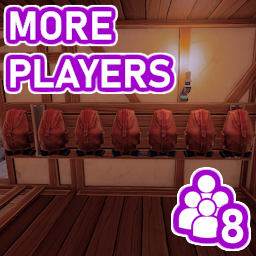
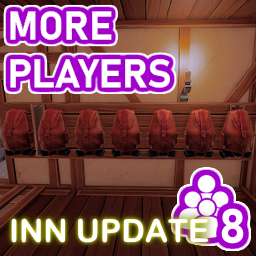
v0.9.2-alpha patches

Changed region(s): [[0.0312, 0.8125, 0.8438, 0.9688]]

diff --git a/build.js b/build.js
@@ -11,17 +11,6 @@ const archive = archiver('zip', {
 
 /* */
 
-const files = [
-    {
-        file : "bin/Debug/netstandard2.1/ATTMorePlayers.dll",
-        name : "MorePlayers.dll"
-    },
-    "icon.png",
-    "manifest.json",
-    "README.md"
-]
-
-console.log("");
 
 let manifest
 
@@ -32,6 +21,18 @@ try {
     console.error(e);
     process.exit();
 }
+
+const files = [
+    {
+        file : "bin/Debug/netstandard2.1/ATTMorePlayers.dll",
+        name : `MorePlayers-v${manifest.version_number}.dll`
+    },
+    "icon.png",
+    "manifest.json",
+    "README.md"
+]
+
+console.log("");
 
 console.log(`Building distribution for ${manifest.name} - ${manifest.version_number}`);
 console.log(`Bundling ${files.length} files.`);

diff --git a/Plugin.cs b/Plugin.cs
@@ -16,7 +16,7 @@ using UnityEngine.UI;
 
 namespace ATTMorePlayers;
 
-[BepInPlugin("com.michaelrooplall.mods.attmoreplayers", "More Players", "0.9.1")]
+[BepInPlugin("com.michaelrooplall.mods.attmoreplayers", "More Players", "0.9.2")]
 public class Plugin : BaseUnityPlugin
 {
 
@@ -33,7 +33,7 @@ public class Plugin : BaseUnityPlugin
         // Enable logging to file
         HarmonyFileLog.Enabled = true;
 
-        Logger.LogInfo($"[MORE PLAYERS] Plugin {MyPluginInfo.PLUGIN_GUID} is loaded!");
+        Logger.LogInfo($"[MORE PLAYERS] Plugin {MyPluginInfo.PLUGIN_GUID} - v{MyPluginInfo.PLUGIN_VERSION} is loaded!");
 
         var harmony = new Harmony("com.michaelrooplall.mods.attmoreplayers.patch");
 
@@ -79,11 +79,11 @@ public class Plugin : BaseUnityPlugin
         } catch (System.Exception e) {
             Logger.LogError(e);
         }
-        try {
-            this.expandPlayerListMenu();
-        } catch (System.Exception e) {
-            Logger.LogError(e);
-        }
+        // try {
+        //     this.expandPlayerListMenu();
+        // } catch (System.Exception e) {
+        //     Logger.LogError(e);
+        // }
         Debug.Log("\n==========================\n\n");
     }
 
@@ -528,125 +528,6 @@ public class Plugin : BaseUnityPlugin
         }
     }
 
-
-    private void expandPlayerListMenu() {
-
-        Debug.Log("\n\n[MORE PLAYERS] [Expanding Player List Menu]");
-        
-        // Find the original PlayerListElement in the hierarchy
-        GameObject menuPlayerScreen = GameObject.Find("Common/GameCanvas/Menu Players Screen");
-
-        GameObject baseCanvasElement = GameObject.Find("Common/GameCanvas/Menu Players Screen/Panel/Panel/");
-
-        GameObject playerListElement2 = GameObject.Find("Common/GameCanvas/Menu Players Screen/Panel/Panel/PlayerListElement_2");
-        GameObject playerListElement3 = GameObject.Find("Common/GameCanvas/Menu Players Screen/Panel/Panel/PlayerListElement_3");
-
-        float positionDif = playerListElement3.transform.position.y - playerListElement2.transform.position.y;
-
-        if (menuPlayerScreen != null && playerListElement2 != null && playerListElement3 != null) {
-
-            PlayerList playerList = menuPlayerScreen.GetComponent<PlayerList>();
-
-            if (playerList == null) {
-                Debug.Log("[MORE PLAYERS] Failed to find PlayerList Component on MenuPlayerScreen");
-                return;
-            }
-
-            PlayerListElement[] ples_extended = new PlayerListElement[maxPlayers.Value];
-
-            FieldInfo field = playerList.GetType().GetField("_ples", BindingFlags.NonPublic | BindingFlags.Instance);
-
-            if (field == null) {
-                Debug.Log("[MORE PLAYERS] Failed to extract _ples from PlayerList");
-                return;
-            }
-
-            PlayerListElement[] _ples = (PlayerListElement[])field.GetValue(playerList);
-
-            for (int i = 0; i < _ples.Length; i++) {
-                ples_extended[i] = _ples[i];
-            }
-
-            for (int player_index = 4; player_index < maxPlayers.Value; player_index++) {
-
-                // Clone the original object
-                GameObject newPlayerListGUIElement = Instantiate(playerListElement3);
-
-                // Set the cloned object as a child of the same parent (Panel/Panel)
-                newPlayerListGUIElement.transform.SetParent(playerListElement3.transform.parent);
-
-                // Change the name and position of the cloned object
-                newPlayerListGUIElement.name = $"PlayerListElement_{player_index}";  // Set the new name
-                newPlayerListGUIElement.transform.position = new Vector3(playerListElement3.transform.position.x, playerListElement3.transform.position.y + ((player_index - 3) * positionDif * 0.7f), playerListElement3.transform.position.z);  // Example new position
-                newPlayerListGUIElement.transform.localScale = playerListElement3.transform.localScale;
-
-                newPlayerListGUIElement.SetActive(value: false);
-
-                PlayerListElement playerListElement = newPlayerListGUIElement.GetComponent<PlayerListElement>();
-                playerListElement.name = $"PlayerListElement_{player_index}";
-
-                ples_extended[player_index] = playerListElement;
-
-                Debug.Log($"[MORE PLAYERS] Created new PlayerListElement for Player {player_index + 1}");
-                
-            }
-
-            field.SetValue(playerList, ples_extended);
-
-            /* UI Scaling to make it look nicer, because we can't get the scrollView fn to work */
-            // insertScrollViewOnPlayerList();
-
-            int childCount = baseCanvasElement.transform.childCount;
-            for (int i = childCount - 1; i >= 0; i--)
-            {
-                Transform child = baseCanvasElement.transform.GetChild(i);
-                child.transform.localScale = new Vector3(0.62f, 0.62f, 0.62f);
-            }
-
-            VerticalLayoutGroup verticalLayoutGroup = baseCanvasElement.GetComponent<VerticalLayoutGroup>();
-            verticalLayoutGroup.childControlHeight = true;
-            verticalLayoutGroup.childScaleHeight = true;
-
-            Debug.Log("[MORE PLAYERS] Finished adding PlayerListElement items to Player List");
-
-            
-        } else {
-            Debug.Log("[MORE PLAYERS] MenuPlayerScreen or PlayerListElement_2 or PlayerListElement_3 not found.");
-        }
-    }
-
-    private void insertScrollViewOnPlayerList() {
-
-        Debug.Log("[MORE PLAYERS] Inserting ScrollView to PlayerList");
-
-        GameObject baseCanvasElement = GameObject.Find("Common/GameCanvas/Menu Players Screen/Panel/Panel");
-
-        // I can't get this or any other version of this to work (at least not without two more days of dev time)
-        // so we'll drop it for now
-
-        if (baseCanvasElement == null)
-        {
-            Debug.LogError("[MORE PLAYERS] Base Canvas Element not found.");
-            return;
-        }
-
-        GameObject scrollViewClone = Instantiate(GameObject.Find("Common/GameCanvas/Shop Screen/BG/Consumables/QuestListPanel/Scroll View"));
-        Transform scrollViewContentTransform = scrollViewClone.transform.Find("Viewport/Content");
-
-        scrollViewClone.transform.SetParent(baseCanvasElement.transform, false);
-
-        // Move all children from baseCanvasElement to the ScrollRect's Content
-        int childCount = baseCanvasElement.transform.childCount;
-        for (int i = childCount - 1; i >= 0; i--)
-        {
-            Transform child = baseCanvasElement.transform.GetChild(i);
-            if (child.transform != scrollViewClone.transform) {
-                child.SetParent(scrollViewContentTransform);
-            }
-
-        }
-
-    }
 
     /* <-- RecipeManager EXP multiplier Patches --> */
 

diff --git a/README.md b/README.md
@@ -1,4 +1,4 @@
-# More Players! v0.9.1-Beta [⚠ BROKEN AS OF 1.4.2 / INN UPDATE]
+# More Players! v0.9.2-Alpha
 
 <p align="center">
   <img alt="Placeholder Image" src="https://raw.githubusercontent.com/DeveloperBlue/ATTMorePlayers/refs/heads/main/previews/3.jpg" width="32%">
@@ -10,13 +10,15 @@
 
 ----
 
-<h1 color="red"> ⚠ As of the 1.4.2 / Inn Update, this mod is broken! ⚠</h1>
+<h1 color="red">🔥 Hotpatch for the 1.4.2 / Inn Update 🔥</h1>
 
-Unfortunately as of the 1.4.2 / Inn Update update, this mod is broken! Users are reporting missing inventories and duplicated items.
+I have pushed out a hotpatch for the 1.4.2 / Inn Update! These patches should fix picking up items, interacting with the inventory, duplicated items, errors with the player list, and fixes game saving!
 
-I am not able to quickly get a patch out at this time.
+Thank you all for your patience, and especially thank you all for the **bug reports** and **support**!
 
-- 3/23/2025
+If you continue to run into issues, please [report your issues here](https://github.com/DeveloperBlue/ATTMorePlayers/issues).
+
+- 4/7/2025
 
 ----
 
@@ -69,7 +71,7 @@ This mod was created for fun in my spare time. It's also my first Unity mod.
   - Reuses players 1-4 spawn points for players 5-8.
     - You may be able to do a funny with everyone joining at the same time and getting squished into the same spawn locations.
 - UI
-  - Adds more player slots in the Player List Menu for players 5 through 8. (Scroll bar coming soon)
+  - ~~Adds more player slots in the Player List Menu for players 5 through 8~~. (REMOVED: The vanilla game now creates 8 player list items on its own)
     - Voice chat still works. Volumes are adjustable between all players.
     - Host can still kick/ban additional players
   - Changes the New Game menu to say "BiggerTavern" instead of just "Tavern", as a way to tell if the mod is loaded or not.
@@ -85,14 +87,21 @@ This mod was created for fun in my spare time. It's also my first Unity mod.
     - Tries to only spawn as much loot as the game has spawn points.
     - Tries to only spawn as many chests as the game has spawn points.
       - e.g. if there are only 8 spots for a chest to spawn, and we try to spawn a 9th chest, the game would crash.
+  - 1.4.2 / Inn Update **(Fixes bugs [#2](https://github.com/DeveloperBlue/ATTMorePlayers/issues/2) [#3](https://github.com/DeveloperBlue/ATTMorePlayers/issues/3), not tested with multiple players)**
+    - This version and versions after have only been lightly tested for bug fixes.
+    - Items can now be picked up
+    - Interacting with an inventory item no longer duplicates it
+    - Fixes saving
+    - No longer creates Player List Items for players 5-8 as the vanilla game now handles that internally
 
 ## To Do
 - Play the full game and test all quests up tho the Cave Quest
 - Server mod "enforcement", to ensure players without the mod can't join the lobby (and break the mod).
-- Scroll bar in the Player List menu
+- ✔ Scroll bar in the Player List menu (Thank you game developers)
 
-## Known Issues
-- No major issues found so far. But I'm sure there's plenty. No one's code should work on the first try like this. It's unholy.
+## Issues
+[Please report any issues you encounter.](https://github.com/DeveloperBlue/ATTMorePlayers/issues)
+If you are able to include logs, crash reports, or information on what you were doing that caused the issue, please provide it!
 
 ----
 
